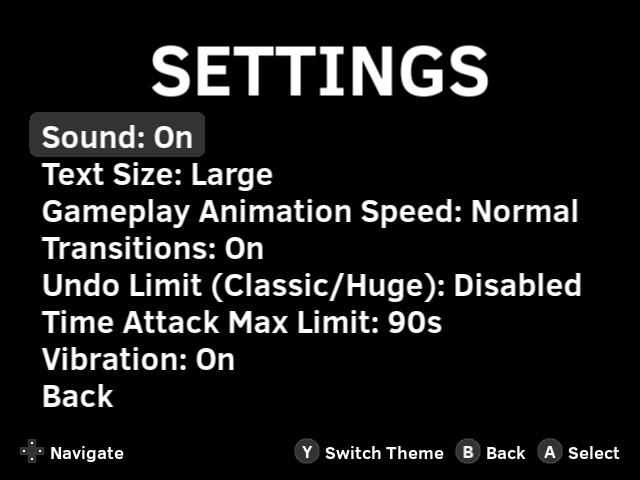
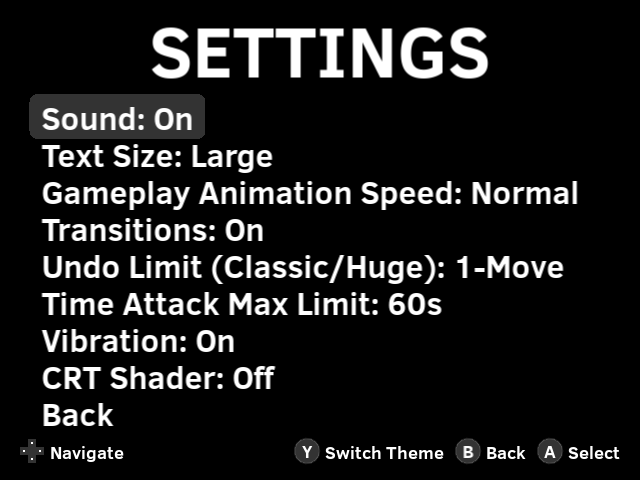
add new screenshots

Changed region(s): [[0.0312, 0.0312, 0.9062, 0.9062], [0.4375, 0.1562, 0.4688, 0.2188]]

diff --git a/README.md b/README.md
@@ -88,6 +88,12 @@ This project is a direct port of the popular open-source [2048 Android](https://
   <img src="screenshots/screenshot9.png" width="30%" />
 </p>
 
+<p align="center">
+  <img src="screenshots/screenshot10.png" width="30%" />
+  <img src="screenshots/screenshot11.png" width="30%" />
+  <img src="screenshots/screenshot12.png" width="30%" />
+</p>
+
 </details>
 
 ## Controls
